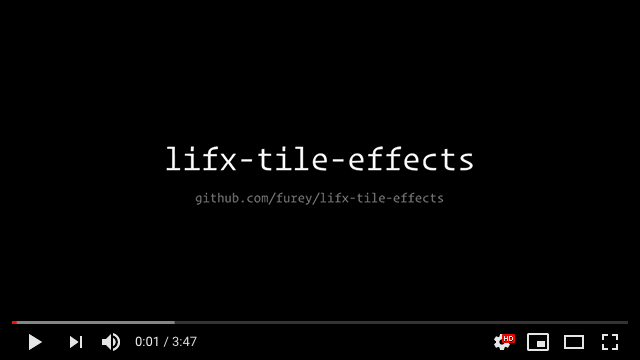
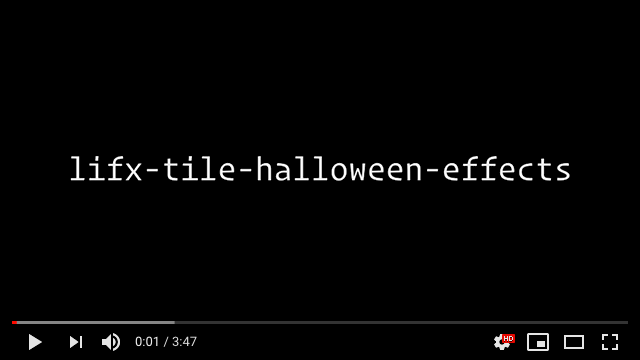
Updated YouTube video links and preview image.

Changed region(s): [[0.0938, 0.3972, 0.9062, 0.5806]]

diff --git a/README.md b/README.md
@@ -73,7 +73,7 @@ Credits:
 
 ### Alien
 
-[![Alien](./assets/readme/alien.gif)](https://www.youtube.com/watch?v=_KHD1uEbiLo&t=2s)
+[![Alien](./assets/readme/alien.gif)](https://www.youtube.com/watch?g7TShjbeDuw&t=2s)
 
 ```console
 $ node lifx-tile-halloween-effects -e alien
@@ -83,7 +83,7 @@ $ node lifx-tile-halloween-effects -e alien
 
 ### Blood
 
-[![Blood](./assets/readme/blood.gif)](https://www.youtube.com/watch?v=_KHD1uEbiLo&t=25s)
+[![Blood](./assets/readme/blood.gif)](https://www.youtube.com/watch?v=g7TShjbeDuw&t=25s)
 
 ```console
 $ node lifx-tile-halloween-effects -e blood
@@ -93,7 +93,7 @@ $ node lifx-tile-halloween-effects -e blood
 
 ### Eyes
 
-[![Eyes](./assets/readme/eyes.gif)](https://www.youtube.com/watch?v=_KHD1uEbiLo&t=47s)
+[![Eyes](./assets/readme/eyes.gif)](https://www.youtube.com/watch?v=g7TShjbeDuw&t=47s)
 
 ```console
 $ node lifx-tile-halloween-effects -e eyes
@@ -103,7 +103,7 @@ $ node lifx-tile-halloween-effects -e eyes
 
 ### Ghoul
 
-[![Ghoul](./assets/readme/ghoul.gif)](https://www.youtube.com/watch?v=_KHD1uEbiLo&t=68s)
+[![Ghoul](./assets/readme/ghoul.gif)](https://www.youtube.com/watch?v=g7TShjbeDuw&t=68s)
 
 ```console
 $ node lifx-tile-halloween-effects -e ghoul
@@ -113,7 +113,7 @@ $ node lifx-tile-halloween-effects -e ghoul
 
 ### Nun
 
-[![Nun](./assets/readme/nun.gif)](https://www.youtube.com/watch?v=_KHD1uEbiLo&t=91s)
+[![Nun](./assets/readme/nun.gif)](https://www.youtube.com/watch?v=g7TShjbeDuw&t=91s)
 
 ```console
 $ node lifx-tile-halloween-effects -e nun
@@ -123,7 +123,7 @@ $ node lifx-tile-halloween-effects -e nun
 
 ### Psycho
 
-[![Psycho](./assets/readme/psycho.gif)](https://www.youtube.com/watch?v=_KHD1uEbiLo&t=113s)
+[![Psycho](./assets/readme/psycho.gif)](https://www.youtube.com/watch?v=g7TShjbeDuw&t=113s)
 
 ```console
 $ node lifx-tile-halloween-effects -e psycho
@@ -133,7 +133,7 @@ $ node lifx-tile-halloween-effects -e psycho
 
 ### Pumpkin
 
-[![Pumpkin](./assets/readme/pumpkin.gif)](https://www.youtube.com/watch?v=_KHD1uEbiLo&t=135s)
+[![Pumpkin](./assets/readme/pumpkin.gif)](https://www.youtube.com/watch?v=g7TShjbeDuw&t=135s)
 
 ```console
 $ node lifx-tile-halloween-effects -e pumpkin
@@ -143,7 +143,7 @@ $ node lifx-tile-halloween-effects -e pumpkin
 
 ### Scream
 
-[![Scream](./assets/readme/scream.gif)](https://www.youtube.com/watch?v=_KHD1uEbiLo&t=157s)
+[![Scream](./assets/readme/scream.gif)](https://www.youtube.com/watch?v=g7TShjbeDuw&t=157s)
 
 ```console
 $ node lifx-tile-halloween-effects -e scream
@@ -153,7 +153,7 @@ $ node lifx-tile-halloween-effects -e scream
 
 ### Shining
 
-[![Shining](./assets/readme/shining.gif)](https://www.youtube.com/watch?v=_KHD1uEbiLo&t=179s)
+[![Shining](./assets/readme/shining.gif)](https://www.youtube.com/watch?v=g7TShjbeDuw&t=179s)
 
 ```console
 $ node lifx-tile-halloween-effects -e shining
@@ -163,7 +163,7 @@ $ node lifx-tile-halloween-effects -e shining
 
 ### Slime
 
-[![Slime](./assets/readme/slime.gif)](https://www.youtube.com/watch?v=_KHD1uEbiLo&t=201s)
+[![Slime](./assets/readme/slime.gif)](https://www.youtube.com/watch?v=g7TShjbeDuw&t=201s)
 
 ```console
 $ node lifx-tile-halloween-effects -e slime
@@ -173,7 +173,7 @@ $ node lifx-tile-halloween-effects -e slime
 
 ## Preview
 
-[![Video](./assets/readme/video.png)](https://www.youtube.com/watch?v=_KHD1uEbiLo)
+[![Video](./assets/readme/video.png)](https://www.youtube.com/watch?v=g7TShjbeDuw)
 
 ## Credits
 
